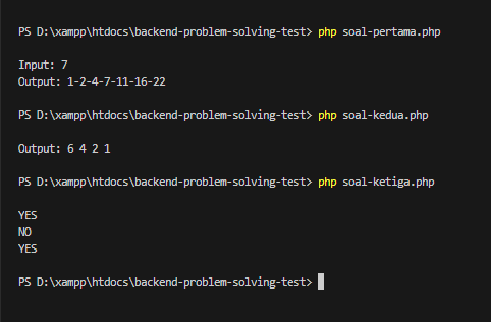
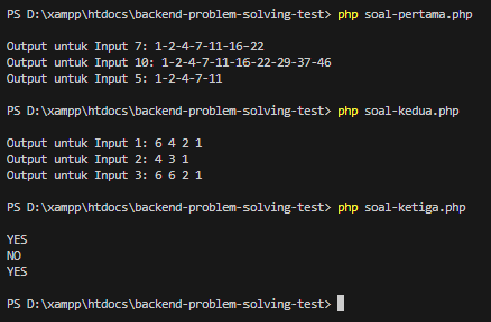
modify

diff --git a/soal-kedua.php b/soal-kedua.php
@@ -21,15 +21,23 @@ function soalKedua($ranked, $player){
 }
 
 // input
-$ranked = [100, 100, 50, 40, 40, 20, 10];
-$player = [5, 25, 50, 120];
+$ranked1 = [100, 100, 50, 40, 40, 20, 10];
+$player1 = [5, 25, 50, 120];
 
-// $ranked = [100, 80, 80, 70];
-// $player = [60, 70, 100];
+$ranked2 = [100, 80, 80, 70];
+$player2 = [60, 70, 100];
 
-$result = soalKedua($ranked, $player);
+$ranked3 = [90, 80, 70, 60, 50];
+$player3 = [30, 40, 80, 120];
+
+$result1 = soalKedua($ranked1, $player1);
+$result2 = soalKedua($ranked2, $player2);
+$result3 = soalKedua($ranked3, $player3);
+
 echo "\n";
-echo "Output: " . implode(" ", $result) . "\n";
+echo "Output untuk Input 1: " . implode(" ", $result1) . "\n";
+echo "Output untuk Input 2: " . implode(" ", $result2) . "\n";
+echo "Output untuk Input 3: " . implode(" ", $result3) . "\n";
 echo "\n";
 
 ?>

diff --git a/soal-pertama.php b/soal-pertama.php
@@ -10,12 +10,18 @@ function soalPertama($n){
     return implode("-", $result);
 }
 
-$input = 7;
-$output = soalPertama($input);
+$input1 = 7;
+$input2 = 10;
+$input3 = 5;
+
+$output1 = soalPertama($input1);
+$output2 = soalPertama($input2);
+$output3 = soalPertama($input3);
 
 echo "\n";
-echo "Input: $input\n";
-echo "Output: $output\n";
+echo "Output untuk Input $input1: $output1\n";
+echo "Output untuk Input $input2: $output2\n";
+echo "Output untuk Input $input3: $output3\n";
 echo "\n";
 
 ?>

diff --git a/soal-ketiga.php b/soal-ketiga.php
@@ -31,11 +31,15 @@ function soalKetiga($input){
     return empty($stack) ? "YES" : "NO";
 }
 
+$input1 = "{[()]}";
+$input2 = "{[(])}";
+$input3 = "{(([])[])[]}";
+
 // kasus tes
 echo "\n";
-echo soalKetiga("{[()]}") . "\n";
-echo soalKetiga("{[(])}") . "\n";
-echo soalKetiga("{(([])[])[]}") . "\n";
+echo soalKetiga($input1) . "\n";
+echo soalKetiga($input2) . "\n";
+echo soalKetiga($input3) . "\n";
 echo "\n";
 
 ?>
